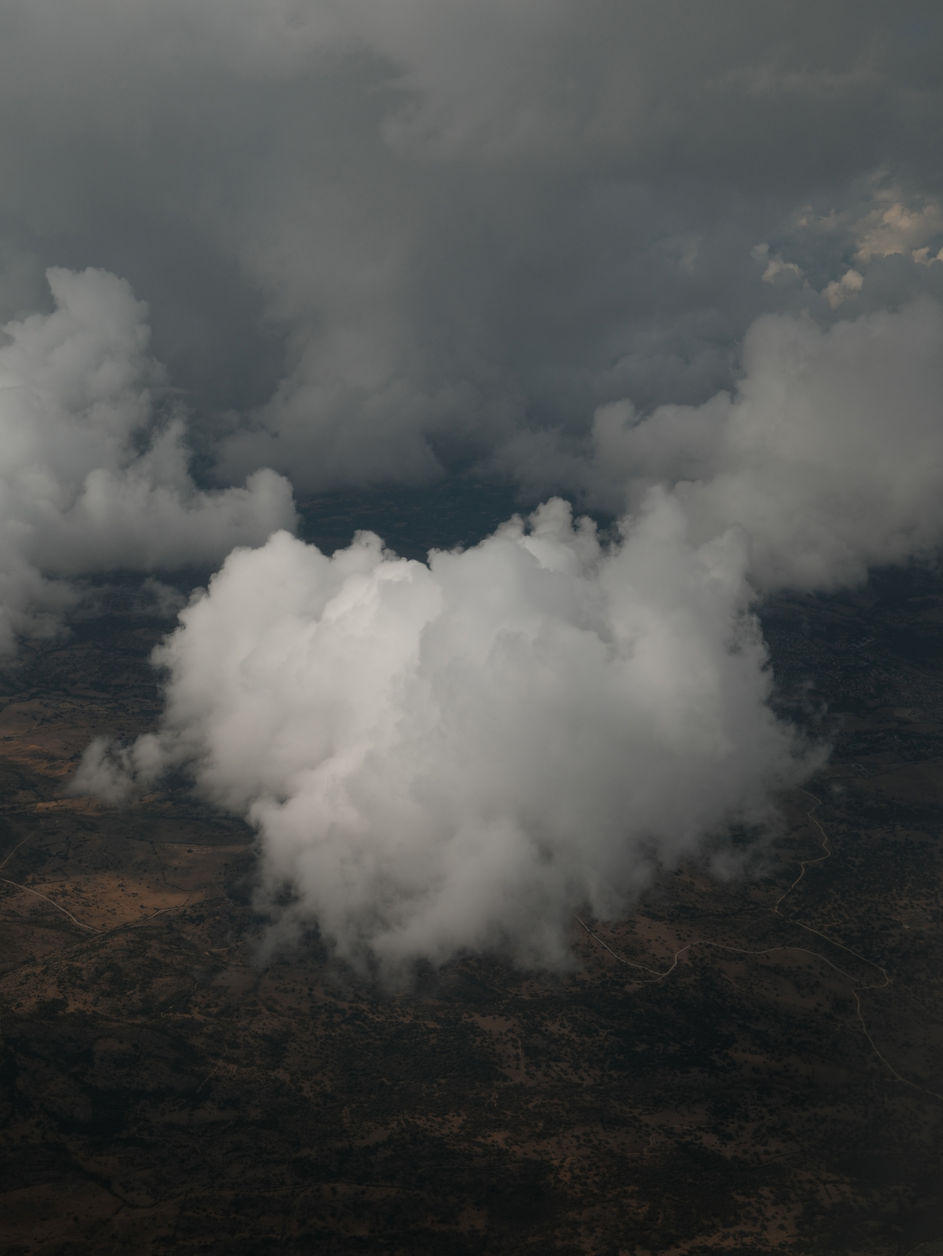
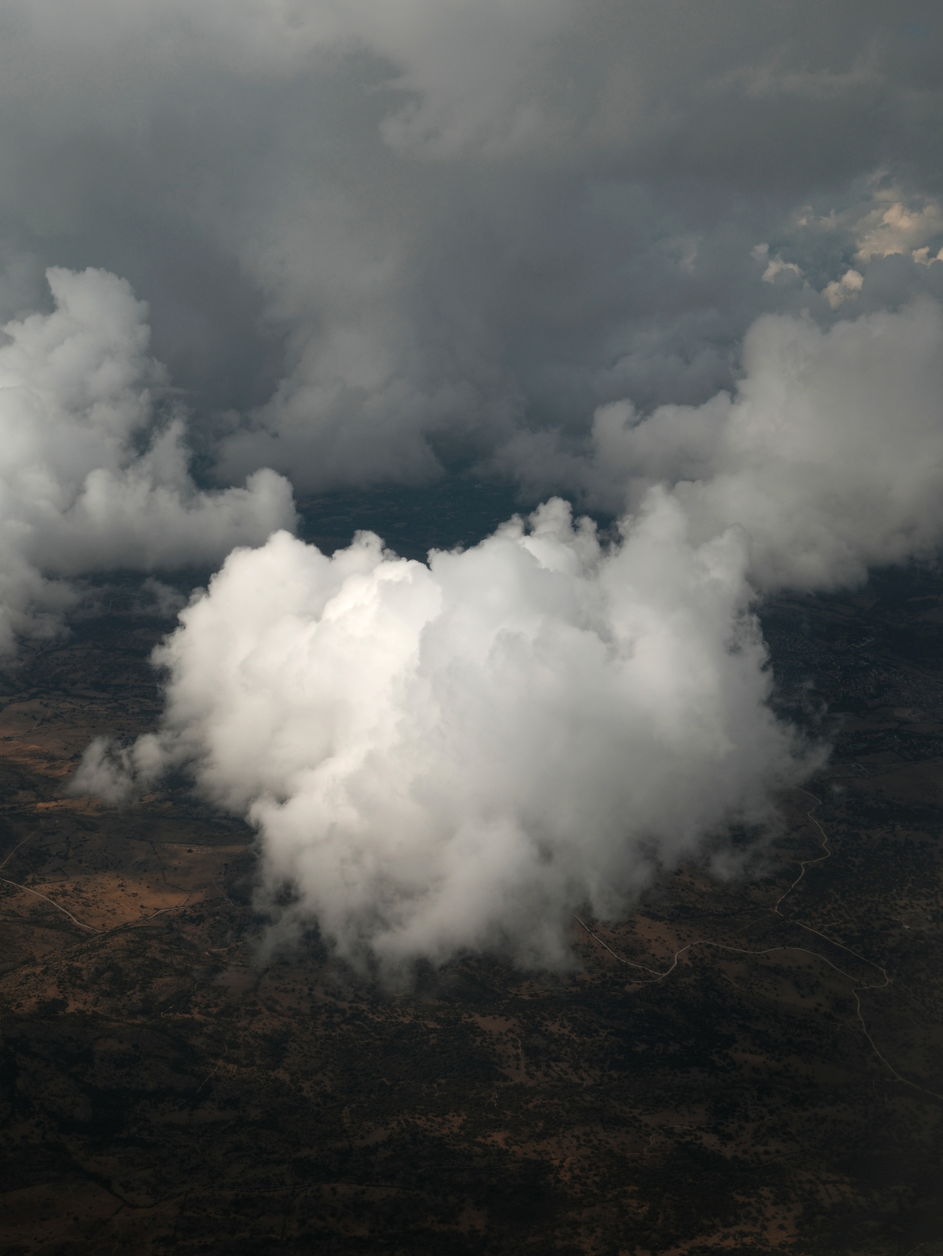
Garabatos: título, texto nuevo y fotos 1-2 y 1-3 cambiadas

diff --git a/CLAUDE.md b/CLAUDE.md
@@ -23,7 +23,7 @@ Web con Hugo (0.168 extended, instalado con winget) y Markdown. Tema propio en `
 
 ## Decisiones
 
-- Página **Zirriborroak / Cuaderno / Notebook** (`content/zirriborroak/`, `layout: notebook` → `layouts/notebook.html`): fotos sueltas que todavía no son proyecto, de su carpeta `Documents/argazkiak/zirriborroak`. Ella las agrupa por el prefijo del nombre (`1-…`, `2-…`); cada grupo es un bloque de fotos a la misma altura. Las fotos de esa carpeta sin prefijo no se usan. Para actualizar: volver a exportar toda la carpeta (LightCraft, 3000 px, sin metadatos) y sustituir las fotos del bundle.
+- Página **Zirriborroak / Garabatos / Notebook** (en castellano, «Garabatos» en el menú y el título; la dirección sigue siendo `/es/cuaderno/`) (`content/zirriborroak/`, `layout: notebook` → `layouts/notebook.html`): fotos sueltas que todavía no son proyecto, de su carpeta `Documents/argazkiak/zirriborroak`. Ella las agrupa por el prefijo del nombre (`1-…`, `2-…`); cada grupo es un bloque de fotos a la misma altura. Las fotos de esa carpeta sin prefijo no se usan. Para actualizar: volver a exportar toda la carpeta (LightCraft, 3000 px, sin metadatos) y sustituir las fotos del bundle.
 - Anuarios **oculto por ahora** (`build: render: never` y menú comentado en `hugo.toml`).
 - Secciones: **Argazkiliburuak / Fotolibros / Photobooks** (`content/argazkiliburuak/`) y **Urtekariak / Anuarios / Yearbooks** (`content/urtekariak/`, vacía: muestra «Próximamente»; falta saber qué anuarios son y su contenido). Antes la sección se llamaba «Proyectos».
 - Idiomas: euskera (principal, en la raíz), castellano (`/es/`) e inglés (`/en/`). Direcciones traducidas con `permalinks` por idioma en `hugo.toml`.

diff --git a/content/zirriborroak/index.es.md b/content/zirriborroak/index.es.md
@@ -1,6 +1,6 @@
 ---
-title: Cuaderno
+title: Garabatos
 layout: notebook
 slug: cuaderno
 ---
-Cosas en marcha que todavía no son un proyecto: fotos sueltas que algún día, espero, encontrarán el suyo.
+Cosas en marcha que todavía no han encontrado su lugar en mi cabeza. Fotos sueltas que garabatean posibles futuros proyectos. O no.
